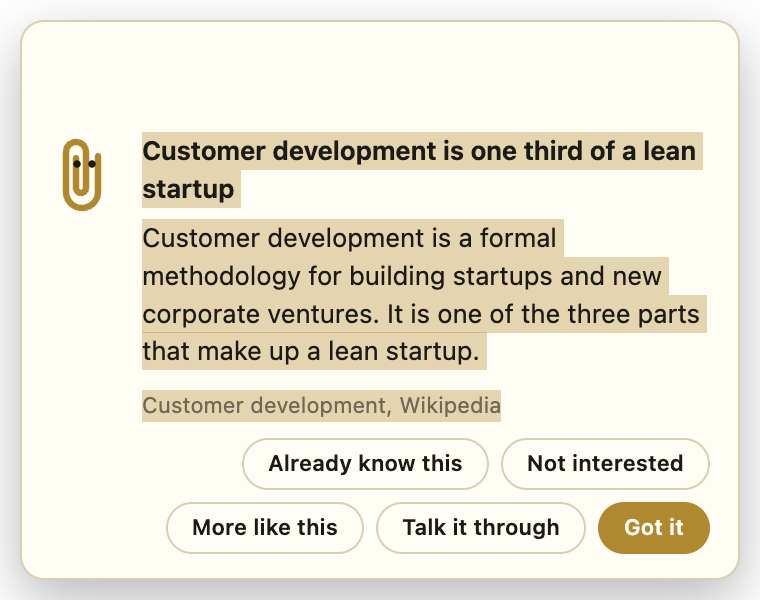
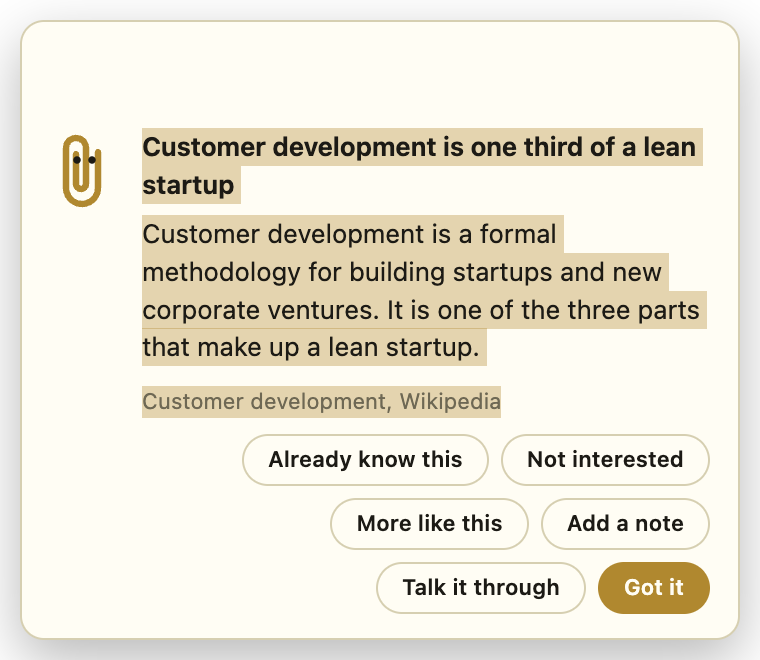
Add an `Add a note` button that keeps what you say about a card for the next edition

diff --git a/src/popup.html b/src/popup.html
@@ -192,6 +192,39 @@
       button.primary:hover {
         filter: brightness(1.12);
       }
+
+      button:disabled {
+        opacity: 0.6;
+        pointer-events: none;
+      }
+
+      #note {
+        width: 100%;
+        margin: 0;
+        padding: 6px 8px;
+        font: inherit;
+        color: var(--ink);
+        background: color-mix(in srgb, var(--card) 80%, var(--border));
+        border: 1px solid var(--border);
+        border-radius: 8px;
+        resize: none;
+        -webkit-user-select: text;
+        cursor: text;
+      }
+
+      #note::placeholder {
+        color: var(--muted);
+      }
+
+      #note:focus {
+        outline: none;
+        border-color: var(--accent);
+      }
+
+      #card.noting .card-action,
+      #card:not(.noting) :is(#note, .note-action) {
+        display: none;
+      }
     </style>
   </head>
   <body>
@@ -213,16 +246,44 @@
         <p id="body"></p>
         <footer>
           <a id="source" href="#"></a>
+          <textarea
+            id="note"
+            rows="3"
+            aria-label="Note for the next edition"
+            placeholder="What do you make of it? The next edition answers it."
+          ></textarea>
           <div id="actions">
-            <button id="known" title="Retire this card, you have it covered">Already know this</button>
-            <button id="not-interested" title="Retire this card and steer the tune-up away from it">
+            <button id="known" class="card-action" title="Retire this card, you have it covered">
+              Already know this
+            </button>
+            <button id="not-interested" class="card-action" title="Retire this card and steer the tune-up away from it">
               Not interested
             </button>
-            <button id="more-like-this" title="Keep this card in play and steer the tune-up and the quiz toward it">
+            <button
+              id="more-like-this"
+              class="card-action"
+              title="Keep this card in play and steer the tune-up and the quiz toward it"
+            >
               More like this
             </button>
-            <button id="discuss">Talk it through</button>
-            <button id="dismiss" class="primary">Got it</button>
+            <button
+              id="add-note"
+              class="card-action"
+              title="Say what you make of this card, the next edition answers it"
+            >
+              Add a note
+            </button>
+            <button id="discuss" class="card-action">Talk it through</button>
+            <button id="dismiss" class="card-action primary">Got it</button>
+            <button id="cancel-note" class="note-action">Cancel</button>
+            <button
+              id="save-note"
+              class="note-action primary"
+              title="Keep the note and close the card, Cmd+Enter does the same"
+              disabled
+            >
+              Save note
+            </button>
           </div>
         </footer>
       </div>
@@ -238,7 +299,11 @@
       const known = document.getElementById('known')
       const notInterested = document.getElementById('not-interested')
       const moreLikeThis = document.getElementById('more-like-this')
+      const addNote = document.getElementById('add-note')
       const discuss = document.getElementById('discuss')
+      const noteBox = document.getElementById('note')
+      const cancelNote = document.getElementById('cancel-note')
+      const saveNote = document.getElementById('save-note')
 
       let calm = false
 
@@ -307,7 +372,7 @@
       const selectedText = () => window.getSelection().toString()
 
       document.addEventListener('mouseup', () => {
-        if (selectedText()) window.coach.selected()
+        if (selectedText()) window.coach.focus()
       })
 
       document.addEventListener('copy', (event) => {
@@ -316,15 +381,44 @@
         event.preventDefault()
       })
 
-      document.addEventListener('keydown', (event) => {
-        if (event.key === 'Escape') window.coach.dismiss()
-      })
-
       const reportHeight = () => {
         requestAnimationFrame(() => {
           window.coach.reportHeight(card.offsetHeight + 20)
         })
       }
+
+      const noteText = () => noteBox.value.trim()
+
+      const setNoting = (open) => {
+        card.classList.toggle('noting', open)
+        reportHeight()
+        if (open) {
+          window.coach.focus()
+          noteBox.focus()
+          return
+        }
+        noteBox.value = ''
+        saveNote.disabled = true
+      }
+
+      const submitNote = () => {
+        const text = noteText()
+        if (text) window.coach.addNote(text)
+      }
+
+      document.addEventListener('keydown', (event) => {
+        if (event.key !== 'Escape') return
+        if (card.classList.contains('noting')) setNoting(false)
+        else window.coach.dismiss()
+      })
+
+      noteBox.addEventListener('pointerdown', () => window.coach.focus())
+      noteBox.addEventListener('input', () => {
+        saveNote.disabled = !noteText()
+      })
+      noteBox.addEventListener('keydown', (event) => {
+        if (event.key === 'Enter' && event.metaKey) submitNote()
+      })
 
       const startBeacon = async (preset) => {
         runner = null
@@ -345,6 +439,7 @@
         known.hidden = !tip.topic
         notInterested.hidden = !tip.topic
         moreLikeThis.hidden = !tip.topic
+        addNote.hidden = !tip.topic
         discuss.hidden = tip.kind === 'nudge'
         reportHeight()
         loudMusic = Boolean(tip.loudMusic)
@@ -366,6 +461,9 @@
       known.addEventListener('click', () => window.coach.markKnown())
       notInterested.addEventListener('click', () => window.coach.markNotInterested())
       moreLikeThis.addEventListener('click', () => window.coach.markInterested())
+      addNote.addEventListener('click', () => setNoting(true))
+      cancelNote.addEventListener('click', () => setNoting(false))
+      saveNote.addEventListener('click', submitNote)
       discuss.addEventListener('click', () => window.coach.discuss())
       document.getElementById('dismiss').addEventListener('click', () => window.coach.dismiss())
     </script>

diff --git a/src/edition.js b/src/edition.js
@@ -16,7 +16,7 @@ export const poolStep = (number, poolFile, library) => {
 }
 
 export const feedbackStep = (number, feedbackFile) =>
-  `${number}. Read ${feedbackFile}. It is a JSON object keyed by card title. Each entry carries the card's topic, how many times it has been shown, a status of "known" when I said I already knew it or "not-interested" when I said I did not want it, and an "interested" count of how many times I asked for more like it. Known cards are learned, so build on them rather than repeating them. Not-interested cards tell you which angles to drop, and that verdict wins over any interested count on the same card. Interested cards are the ones to go deeper on, the higher the count the more so: write what follows from them, the ideas next to them and the sources behind them. Cards shown many times without a mark are the ones I keep sitting with, so those themes are still open.`
+  `${number}. Read ${feedbackFile}. It is a JSON object keyed by card title. Each entry carries the card's topic, how many times it has been shown, a status of "known" when I said I already knew it or "not-interested" when I said I did not want it, an "interested" count of how many times I asked for more like it, and "notes", what I typed on the card when it came up, each with its text and the time I wrote it. Known cards are learned, so build on them rather than repeating them. Not-interested cards tell you which angles to drop, and that verdict wins over any interested count on the same card. Interested cards are the ones to go deeper on, the higher the count the more so: write what follows from them, the ideas next to them and the sources behind them. Every note is an instruction for this edition, whatever else the card is marked: answer it, explain what it asks about, or take the card where it points. Cards shown many times without a mark are the ones I keep sitting with, so those themes are still open.`
 
 export const quizStep = (number, quizFile, aim) => `${number}. Read ${quizFile} if it exists. ${QUIZ_SHAPE} ${aim}`
 

diff --git a/src/coach.js b/src/coach.js
@@ -207,9 +207,11 @@ export const createCoach = (getState, library, getBeacon, getSiteLine) => {
     const whileOpen = (action) => () => {
       if (!window.isDestroyed()) action()
     }
-    window.webContents.on('context-menu', (_event, { selectionText, linkURL }) => {
+    window.webContents.on('context-menu', (_event, { selectionText, linkURL, isEditable }) => {
       Menu.buildFromTemplate([
+        { role: 'cut', visible: isEditable, enabled: selectionText.length > 0 },
         { label: 'Copy', enabled: selectionText.length > 0, click: whileOpen(() => window.webContents.copy()) },
+        { role: 'paste', visible: isEditable },
         { label: 'Copy Link', visible: linkURL.length > 0, click: () => clipboard.writeText(linkURL) },
         {
           label: 'Select All',
@@ -259,7 +261,7 @@ export const createCoach = (getState, library, getBeacon, getSiteLine) => {
     if (!window || window.isDestroyed()) return
     window.setContentSize(POPUP_WIDTH, Math.round(height))
     placeBottomRight(window)
-    window.showInactive()
+    if (!window.isVisible()) window.showInactive()
   })
 
   ipcMain.on('coach:beacon', (_event, label) => log(`beacon ${label}`))
@@ -286,6 +288,13 @@ export const createCoach = (getState, library, getBeacon, getSiteLine) => {
     }),
   )
 
+  ipcMain.on('coach:note', (_event, text) =>
+    closeAndRecord((tip) => {
+      feedback.addNote(tip, text)
+      log(`noted on "${tip.title}": ${JSON.stringify(text)}`)
+    }),
+  )
+
   ipcMain.on('coach:discuss', () => {
     const tip = showing
     closePopup()
@@ -297,7 +306,7 @@ export const createCoach = (getState, library, getBeacon, getSiteLine) => {
     closePopup()
   })
 
-  ipcMain.on('coach:selected', (event) => {
+  ipcMain.on('coach:focus', (event) => {
     const window = BrowserWindow.fromWebContents(event.sender)
     if (window) focusCard(window)
   })

diff --git a/src/quiz.js b/src/quiz.js
@@ -7,7 +7,7 @@ const buildPrompt = ({ poolFile, feedbackFile, quizFile, library }) => {
     '',
     poolStep(1, poolFile, library),
     '',
-    `2. Read ${feedbackFile}. It is a JSON object keyed by card title with the card's topic, how many times it has been shown, a status of "known" or "not-interested" where I marked one, and an "interested" count where I asked for more like it. Cards with a shown count are the ones I have actually seen. Leave not-interested cards out entirely, even when they also carry an interested count. Interested cards are the ones I asked for more of, so make sure they come up.`,
+    `2. Read ${feedbackFile}. It is a JSON object keyed by card title with the card's topic, how many times it has been shown, a status of "known" or "not-interested" where I marked one, an "interested" count where I asked for more like it, and "notes" where I typed something on the card, each with its text and the time I wrote it. Cards with a shown count are the ones I have actually seen. Leave not-interested cards out entirely, even when they also carry an interested count. Interested cards are the ones I asked for more of, so make sure they come up. A note says what I wanted from a card, so honour it in the questions on that card and in the cards you write after.`,
     '',
     quizStep(
       3,

diff --git a/site/index.html b/site/index.html
@@ -281,8 +281,8 @@
         <img
           src="card.png"
           width="380"
-          height="300"
-          alt="A coach card: a gold paperclip, a title, a short body, a source link and five buttons"
+          height="330"
+          alt="A coach card: a gold paperclip, a title, a short body, a source link and six buttons"
         />
         <figcaption>One card. The title, the body and the source can be selected and copied in one drag.</figcaption>
       </figure>
@@ -300,6 +300,7 @@
         <li>
           <strong>Already know this</strong> and <strong>Not interested</strong> retire a card for good.
           <strong>More like this</strong> keeps it in play and counts as a vote for more in that direction.
+          <strong>Add a note</strong> leaves a note on the card that the next edition answers.
         </li>
         <li>
           Once a week a tune-up card reads what you have been working on, interviews you, and rewrites the personal

diff --git a/src/feedback.js b/src/feedback.js
@@ -22,6 +22,8 @@ export const createFeedback = () => {
     mark: (tip, status) => update(tip, () => ({ status, markedAt: new Date().toISOString() })),
     markInterested: (tip) =>
       update(tip, (entry) => ({ interested: (entry.interested ?? 0) + 1, interestedAt: new Date().toISOString() })),
+    addNote: (tip, text) =>
+      update(tip, (entry) => ({ notes: [...(entry.notes ?? []), { text, at: new Date().toISOString() }] })),
     retiredTitles: () =>
       new Set(
         Object.entries(entries())

diff --git a/README.md b/README.md
@@ -14,7 +14,7 @@ The **Focus time** submenu opens with the goal block: the period's total and eac
 
 When the gap gets wide the coach says so out loud. Starting a session in a category that is ahead of its share, or reaching the end of one, brings up a card naming the category furthest behind and asking you to point the next session at it. It never switches anything for you. Two gates keep it quiet: at least eight hours logged in the period, so a fresh split cannot trip it, and at least ten points of gap, so being close to target is left alone. It comes at most once an hour for as long as the app stays up, and **Talk it through** opens a session with the whole ledger to work out whether the split itself is still right.
 
-**Freebasing.** No timer and no goal you are held to, just the coach's cards and whatever the wandering ADHD brain lands on next. It is a mode you pick on purpose rather than the absence of the other one, because creativity tends to come out of that chaos. Nothing asks what you are working on. The menu says No task, on purpose where a timer session would carry a label, and the menu bar drops the one the last session left behind. [Flashy](docs/flashy.md), Clippy's cousin who did better for himself, slides a card into the corner every four to twelve minutes with one idea, drawn from 366 tips distilled from free sources. It sits above every window and every space until you press Got it, so it survives switching apps. Talk it through opens a Claude Code session seeded with that tip so you can argue with it. Already know this and Not interested retire the card for good. More like this keeps the card in play and counts as a vote for more in that direction. The title, the body and the source are selectable text, so one drag from the top of the card to the source takes all three, a right click offers Copy and Select All, plus Copy Link when the click is on the source, and the moment a drag or a double click has selected something the card asks for keyboard focus so that Cmd+C lands on it rather than on the app behind. Whenever the source is part of what you copy, its address goes on the last line. Once the card has focus, Escape closes it, and closing it hands focus back to the app you came from.
+**Freebasing.** No timer and no goal you are held to, just the coach's cards and whatever the wandering ADHD brain lands on next. It is a mode you pick on purpose rather than the absence of the other one, because creativity tends to come out of that chaos. Nothing asks what you are working on. The menu says No task, on purpose where a timer session would carry a label, and the menu bar drops the one the last session left behind. [Flashy](docs/flashy.md), Clippy's cousin who did better for himself, slides a card into the corner every four to twelve minutes with one idea, drawn from 366 tips distilled from free sources. It sits above every window and every space until you press Got it, so it survives switching apps. Talk it through opens a Claude Code session seeded with that tip so you can argue with it. Already know this and Not interested retire the card for good. More like this keeps the card in play and counts as a vote for more in that direction. Add a note opens a box on the card for whatever you want to say about it, an abbreviation that wants spelling out, a question, a direction to take, and Save note or Cmd+Enter closes the card with it kept. The title, the body and the source are selectable text, so one drag from the top of the card to the source takes all three, a right click offers Copy and Select All, plus Copy Link when the click is on the source, and the moment a drag or a double click has selected something the card asks for keyboard focus so that Cmd+C lands on it rather than on the app behind. Whenever the source is part of what you copy, its address goes on the last line. Once the card has focus, Escape closes it, or puts away the note box first when one is open, and closing it hands focus back to the app you came from.
 
 ![A card with the title, body and source selected in one drag](docs/popup-selection.png)
 
@@ -24,7 +24,7 @@ Each card carries a beacon along its top edge, there to catch an attention that 
 
 The tips cover three subjects, 122 cards each: building a SaaS, the psychology of attention, motivation and habit, and the psychiatry around working with your own head. Cards rotate through the subjects in turn, so each gets exactly a third of the airtime whatever is left in its pool. Inside a subject the definitions come first, what SaaS, psychology and psychiatry even are and the vocabulary the other cards lean on, then the rest in a shuffled order. Each subject seeds a different conversation when you press Talk it through, and the psychiatry one is told to stay inside its source, avoid diagnosing, and name when something belongs with a doctor.
 
-Every card you see is recorded in `feedback.json` in the app's user data, keyed by title, with its subject, how many times it has shown, the status you gave it, and how many times you asked for more like it. Retired cards never come back, a subject whose cards are all retired drops out of the rotation, and when nothing is left the tune-up card takes over. Cards you asked for more of keep coming round, the count survives a later known mark, a later Not interested mark wins over it, and both the tune-up and the quiz read those cards as the places to go further.
+Every card you see is recorded in `feedback.json` in the app's user data, keyed by title, with its subject, how many times it has shown, the status you gave it, how many times you asked for more like it, and the notes you left on it, each with its time. Retired cards never come back, a subject whose cards are all retired drops out of the rotation, and when nothing is left the tune-up card takes over. Cards you asked for more of keep coming round, the count survives a later known mark, a later Not interested mark wins over it, and both the tune-up and the quiz read those cards as the places to go further. A note goes to them too, as an instruction: answer it, explain what it asks about, or take the card where it points.
 
 That session starts in `/tmp`, and its prompt names TimerBar's own checkout, so an argument about a tip can turn into a change to the coach. A packaged build learns that checkout path from the first run out of the source tree, because the bundle only knows its own location inside `/Applications`.
 

diff --git a/docs/flashy.md b/docs/flashy.md
@@ -19,6 +19,7 @@ He keeps the three subjects in strict rotation, a third each, and inside a subje
 - **Already know this.** He does not believe you, but he retires the card.
 - **Not interested.** He takes it personally, retires the card, and steers the next tune-up away from that angle.
 - **More like this.** His favourite button. It keeps the card in play and counts as a vote, and the tune-up and the quiz go deeper wherever the votes are.
+- **Add a note.** A box for what you make of the card, the abbreviation he should have spelled out, the question it left open. He reads every word and has the next edition answer it, which he counts as proof that he listens.
 
 ## When he asks for help
 
